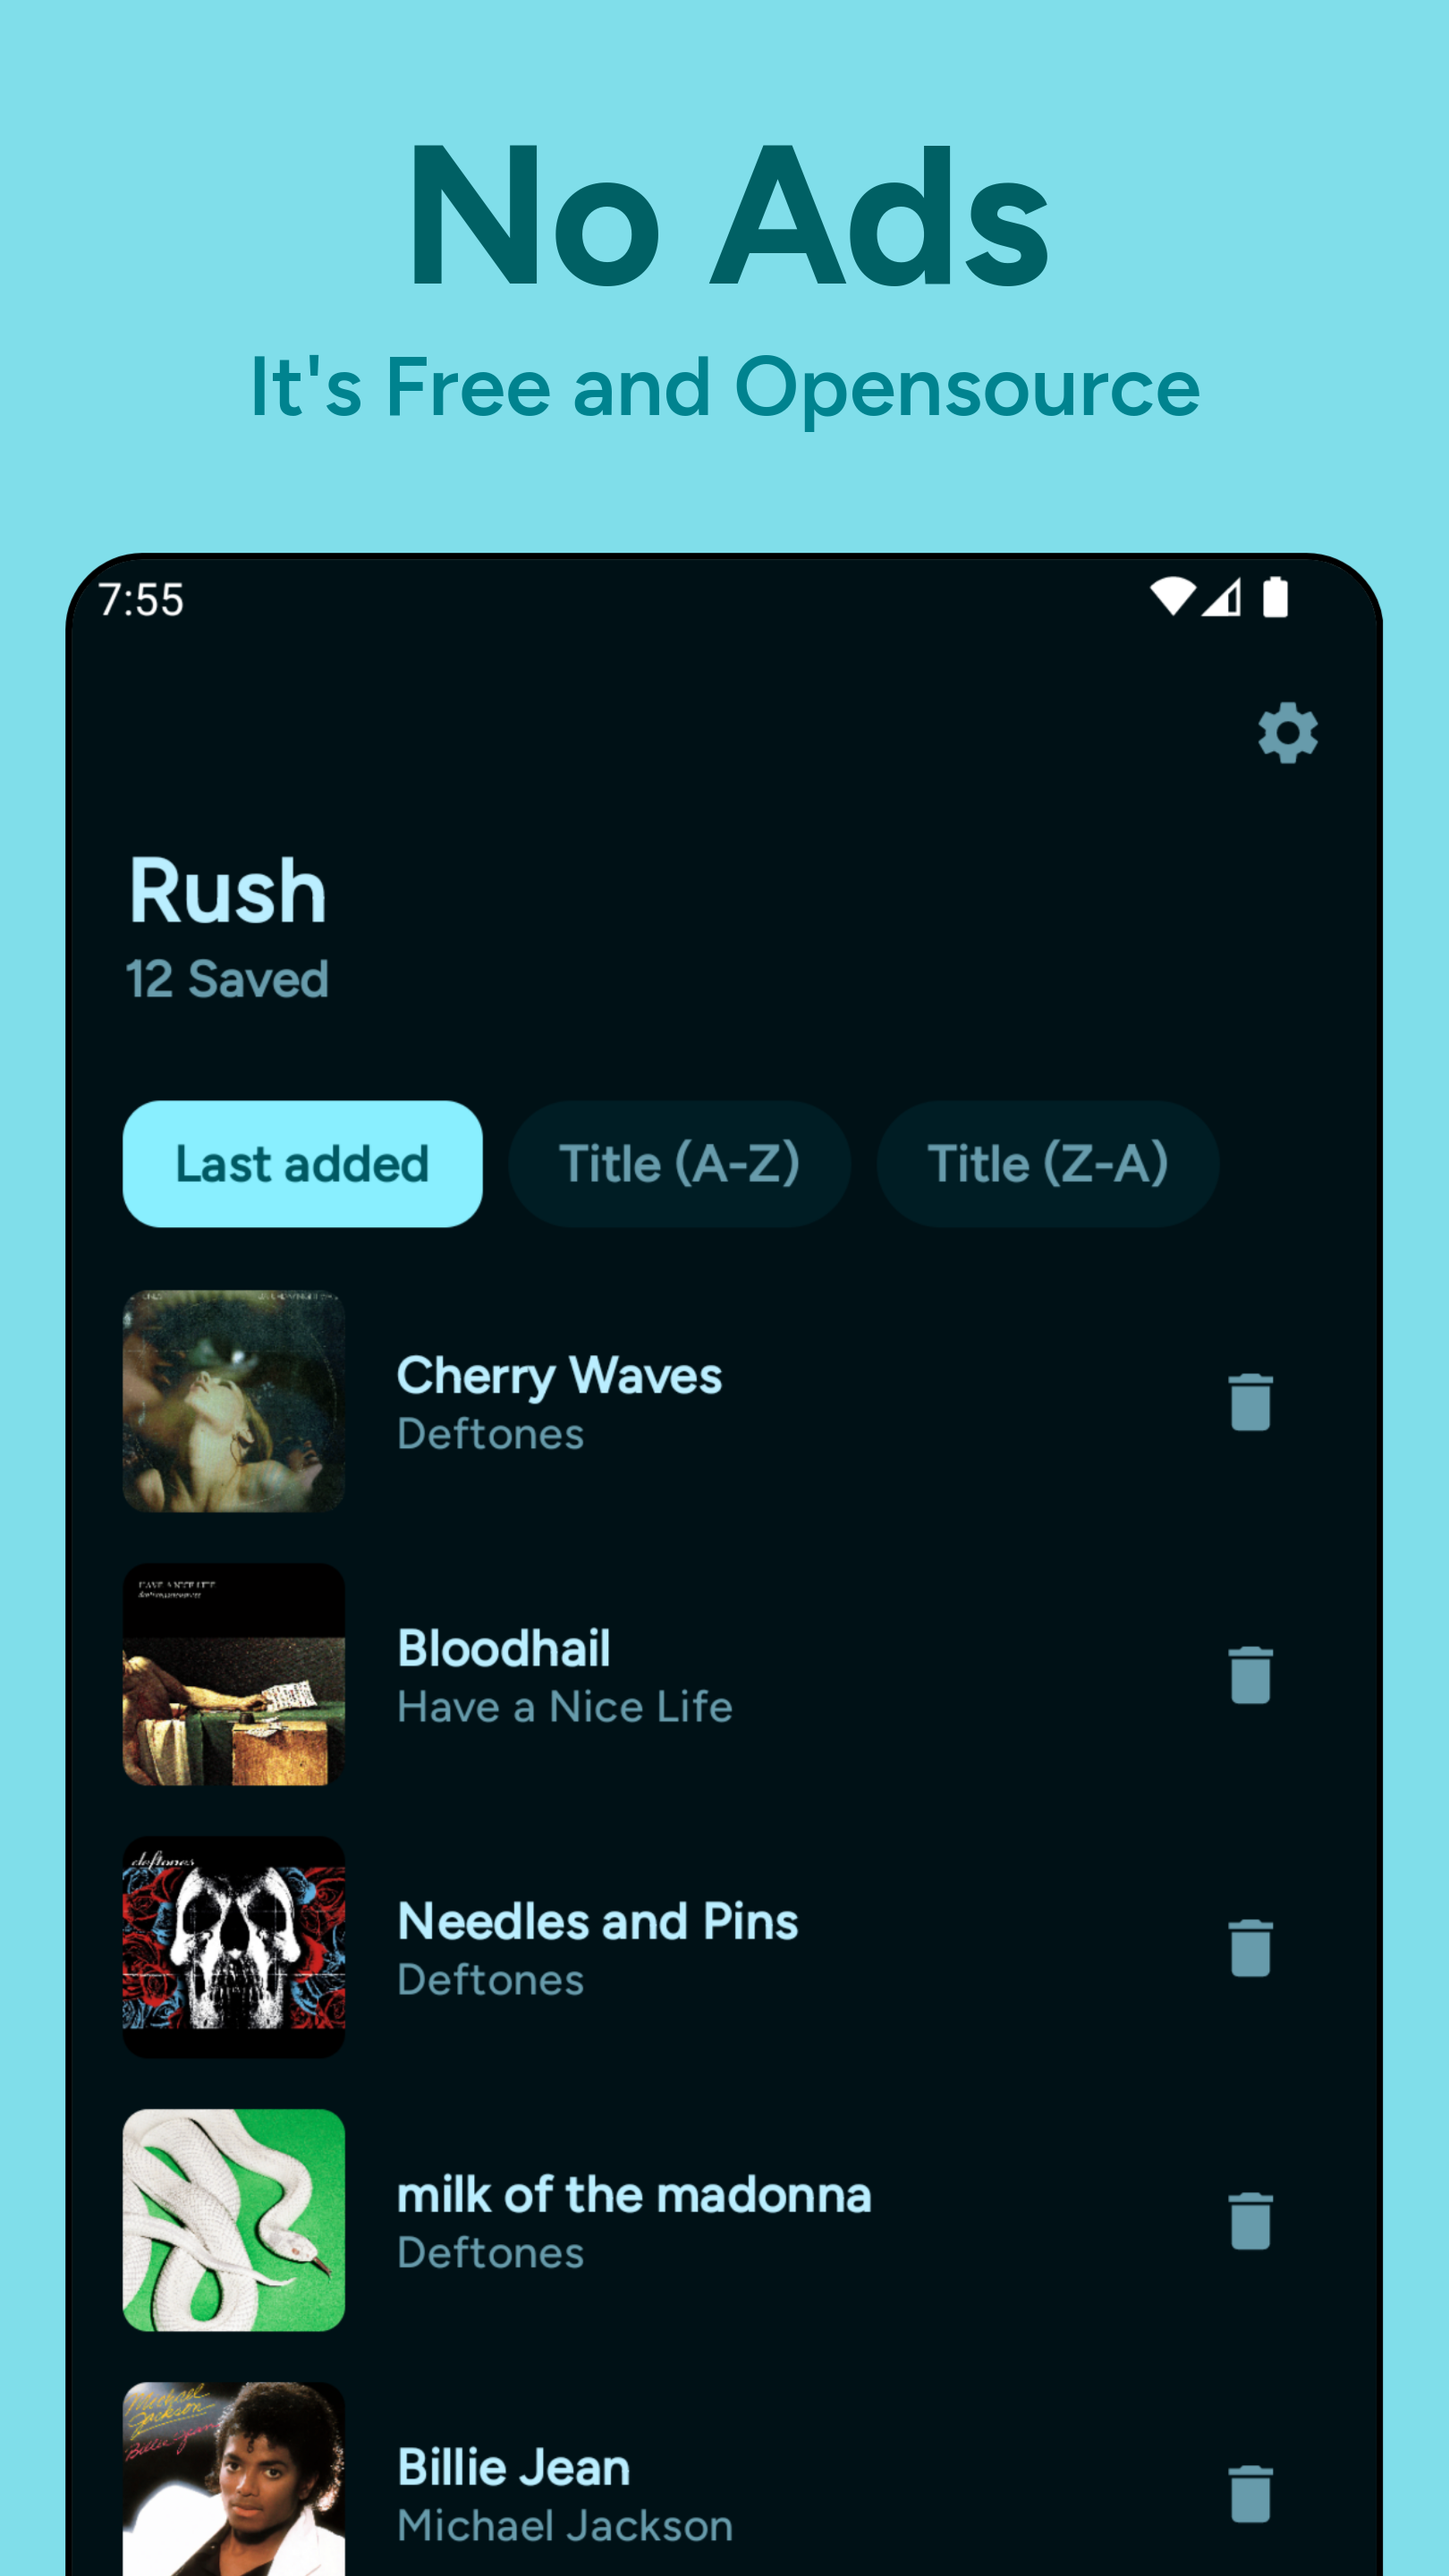
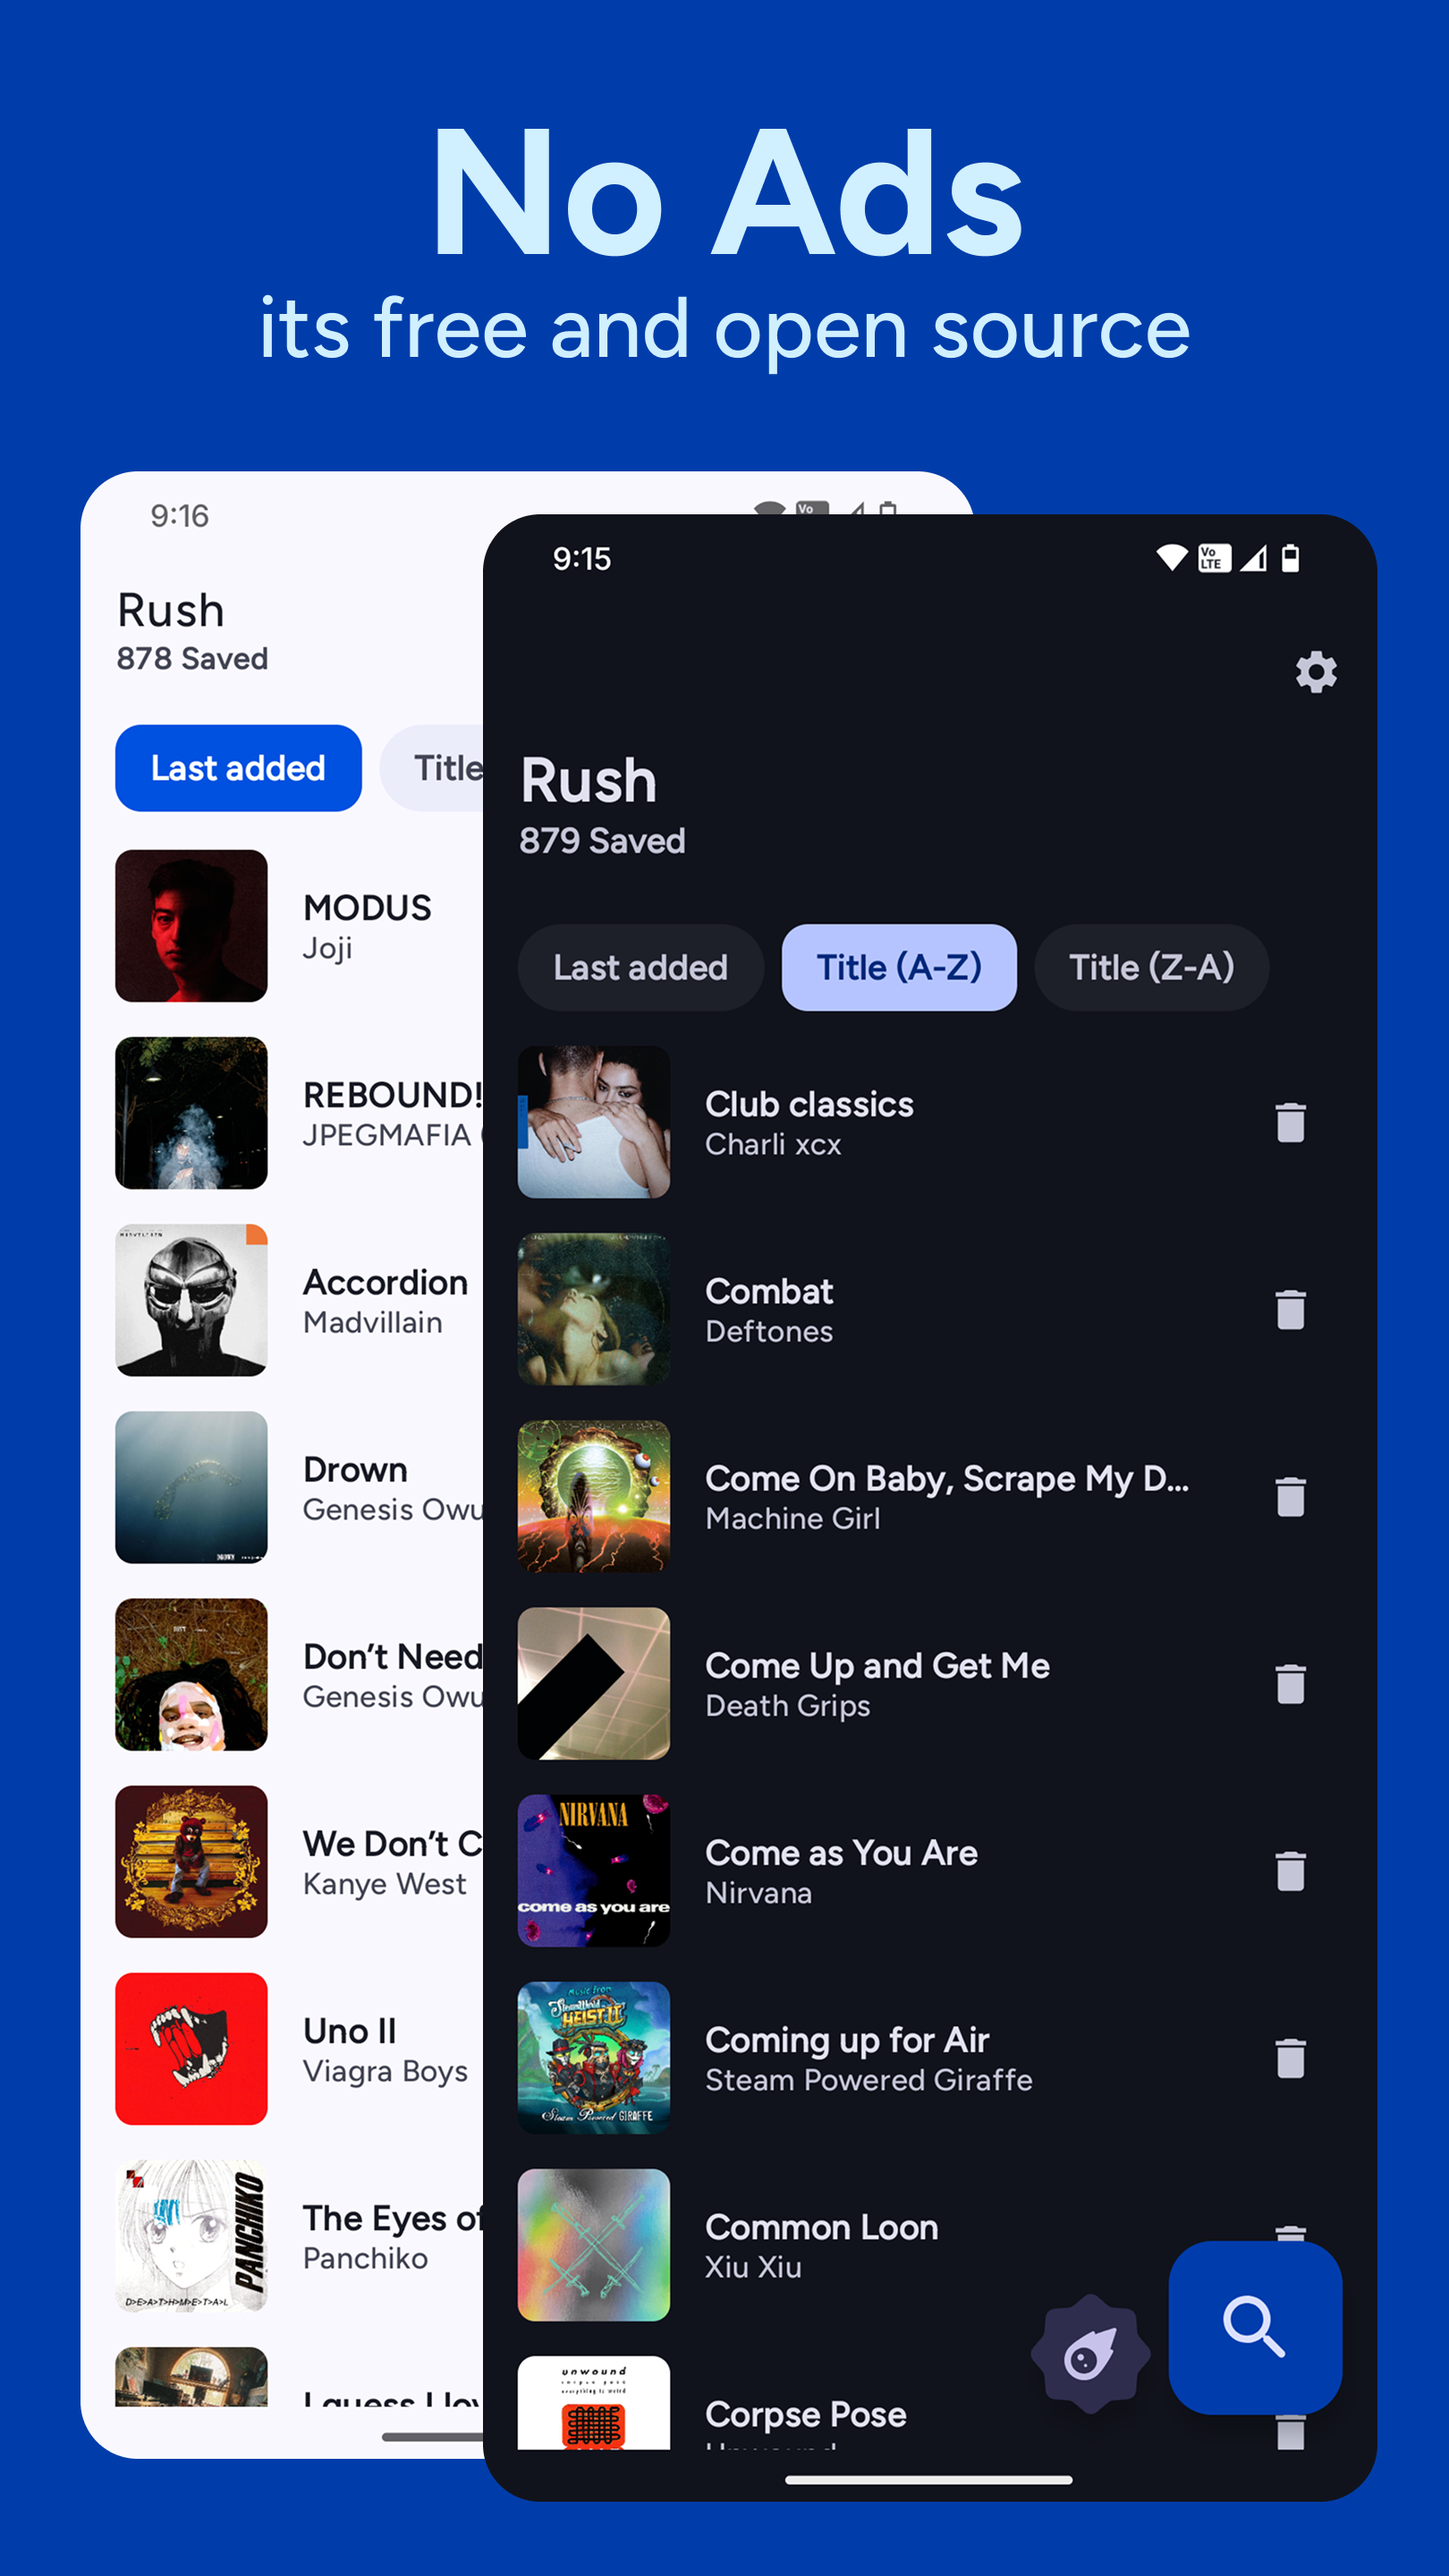
[release] :wrench: updated screenshots
* fixed AboutLibrariesPage.kt

diff --git a/app/src/main/java/com/shub39/rush/setting/section/AboutLibrariesPage.kt b/app/src/main/java/com/shub39/rush/setting/section/AboutLibrariesPage.kt
@@ -27,7 +27,7 @@ import com.shub39.rush.core.presentation.PageFill
 fun AboutLibrariesPage(
     onNavigateBack: () -> Unit
 ) = PageFill {
-    val libraries by produceLibraries()
+    val libraries by produceLibraries(R.raw.aboutlibraries)
 
     Scaffold(
         modifier = Modifier.widthIn(max = 1000.dp),

diff --git a/CHANGELOG.md b/CHANGELOG.md
@@ -1,5 +1,10 @@
 # Changelog
 
+## 5.3.0
+- **Improved autosearch**, a button will be displayed when exact match is not found 
+- Added Rush Logo to cards and a toggle for that
+- misc bug fixes, updated deps, metadata and fixed deprecations
+
 ## 5.2.0
 - Optimised share cards
 - Optimised Backup ui and fix crashes
